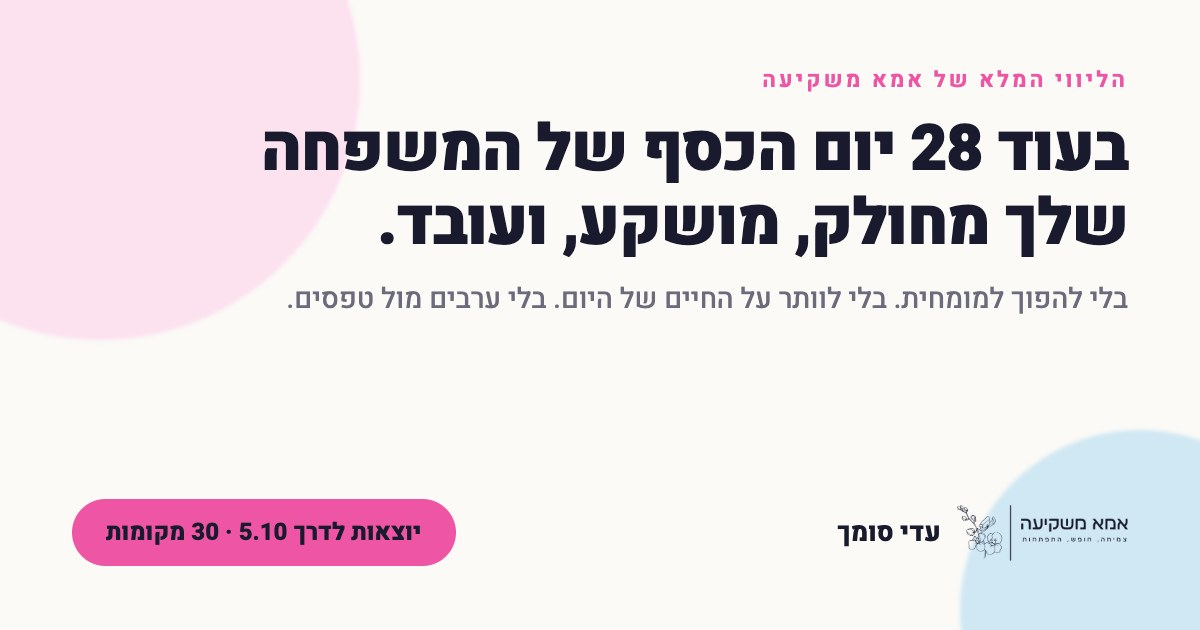
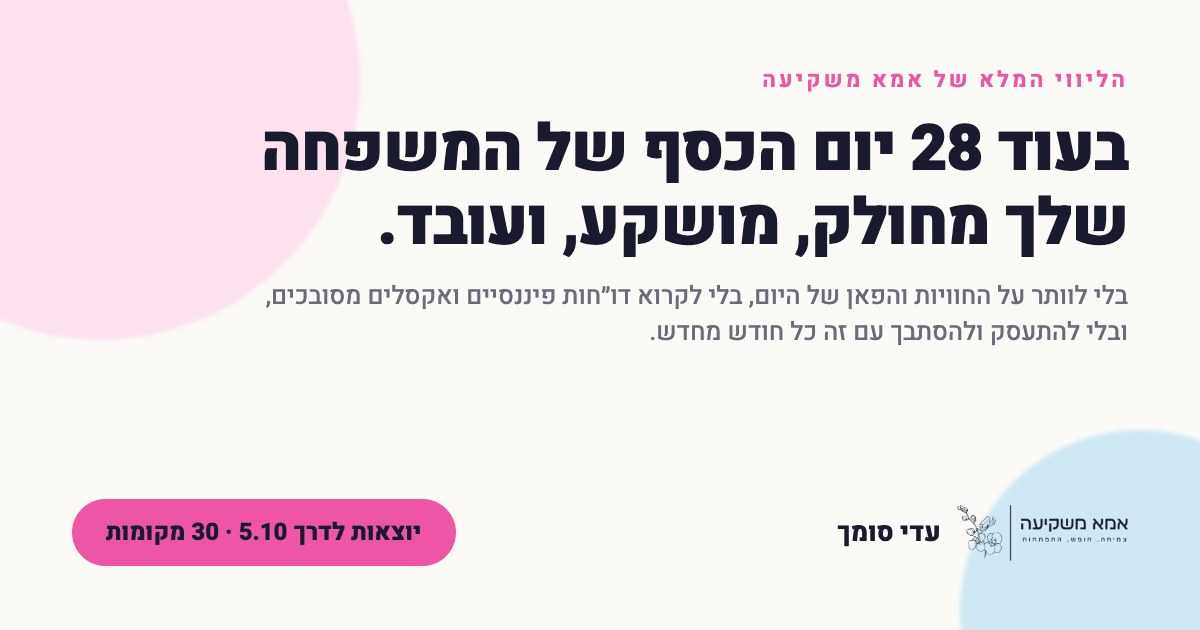
כותרת משנה בהירו במילים של עדי + תמונת שיתוף

Changed region(s): [[0.2158, 0.4524, 0.9558, 0.5429]]

diff --git a/index.html b/index.html
@@ -12,14 +12,14 @@
 <meta property="og:locale" content="he_IL">
 <meta property="og:site_name" content="אמא משקיעה">
 <meta property="og:title" content="הליווי של אמא משקיעה · 28 יום לכסף שעובד">
-<meta property="og:description" content="בלי להפוך למומחית. בלי לוותר על החיים של היום. בלי ערבים מול טפסים. יוצאות לדרך 5.10, 30 מקומות.">
+<meta property="og:description" content="בלי לוותר על החוויות והפאן של היום, בלי לקרוא דו״חות פיננסיים ואקסלים מסובכים, ובלי להתעסק ולהסתבך עם זה כל חודש מחדש. יוצאות לדרך 5.10, 30 מקומות.">
 <meta property="og:url" content="https://adinahirr-commits.github.io/livui/">
 <meta property="og:image" content="https://adinahirr-commits.github.io/livui/assets/og.jpg">
 <meta property="og:image:width" content="1200">
 <meta property="og:image:height" content="630">
 <meta name="twitter:card" content="summary_large_image">
 <meta name="twitter:title" content="הליווי של אמא משקיעה · 28 יום לכסף שעובד">
-<meta name="twitter:description" content="בלי להפוך למומחית. בלי לוותר על החיים של היום. בלי ערבים מול טפסים.">
+<meta name="twitter:description" content="בלי לוותר על החוויות והפאן של היום, בלי לקרוא דו״חות פיננסיים ואקסלים מסובכים, ובלי להתעסק ולהסתבך עם זה כל חודש מחדש.">
 <meta name="twitter:image" content="https://adinahirr-commits.github.io/livui/assets/og.jpg">
 <meta name="theme-color" content="#FBFAF7">
 <link rel="icon" href="assets/logo.png">
@@ -299,7 +299,7 @@ html.a11y-noanim *{animation:none!important;transition:none!important;scroll-beh
   <div class="wrap">
     <span class="eyebrow">הליווי המלא של אמא משקיעה:</span>
     <h1>בעוד 28 יום הכסף של המשפחה שלך <span class="accent">מחולק, מושקע, ועובד.</span> גם כשאת ישנה.</h1>
-    <p class="sub">בלי להפוך למומחית. בלי לוותר על החיים של היום. בלי ערבים מול טפסים.</p>
+    <p class="sub">בלי לוותר על החוויות והפאן של היום, בלי לקרוא דו״חות פיננסיים ואקסלים מסובכים, ובלי להתעסק ולהסתבך עם זה כל חודש מחדש.</p>
     <a class="btn" data-cta="hero" data-pay="three" href="https://secure.cardcom.solutions/EA/EA5/PfVKpHAWbkSkjaKi8CcWrg/PaymentSP">אני מצטרפת לליווי</a>
     <div class="pill-facts"><span>יוצאות לדרך יום שני 5.10</span><span>30 מקומות</span><span>3 × 999 ₪</span></div>
     <p class="micro"><strong>אחריות מלאה:</strong> עברת את הליווי, הגעת למפגשים, ולא יצאת עם מפת דרכים ברורה? החזר מלא, בלי שאלות.</p>

diff --git a/og.html b/og.html
@@ -12,7 +12,7 @@
   .wrap{position:absolute;inset:0;padding:64px 72px;box-sizing:border-box;display:flex;flex-direction:column;justify-content:space-between}
   .eyebrow{font-size:22px;font-weight:700;letter-spacing:.14em;color:#EF55A5}
   h1{font-size:64px;line-height:1.15;font-weight:900;margin:18px 0 0;letter-spacing:-.02em;max-width:900px}
-  .sub{font-size:28px;font-weight:500;color:#6B6B7B;margin-top:18px}
+  .sub{font-size:25px;font-weight:500;color:#6B6B7B;margin-top:18px;max-width:900px;line-height:1.45}
   .foot{display:flex;align-items:center;justify-content:space-between}
   .brand{display:flex;align-items:center;gap:16px;font-size:26px;font-weight:800}
   .brand img{height:56px}
@@ -25,7 +25,7 @@
     <div>
       <div class="eyebrow">הליווי המלא של אמא משקיעה</div>
       <h1>בעוד 28 יום הכסף של המשפחה שלך מחולק, מושקע, ועובד.</h1>
-      <div class="sub">בלי להפוך למומחית. בלי לוותר על החיים של היום. בלי ערבים מול טפסים.</div>
+      <div class="sub">בלי לוותר על החוויות והפאן של היום, בלי לקרוא דו״חות פיננסיים ואקסלים מסובכים, ובלי להתעסק ולהסתבך עם זה כל חודש מחדש.</div>
     </div>
     <div class="foot">
       <div class="brand"><img src="assets/logo.png" alt=""><span>עדי סומך</span></div>
